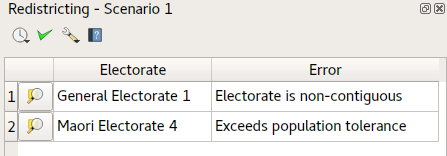
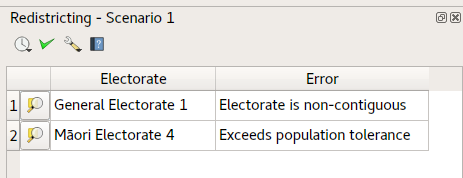
Maori -> Māori

Changed region(s): [[0.0, 0.359, 1.0, 1.0], [0.0, 0.0, 1.0, 0.1538], [0.0291, 0.1795, 0.2327, 0.3077]]

diff --git a/documentation/ui_design/mockups/mock_dock.py b/documentation/ui_design/mockups/mock_dock.py
@@ -66,7 +66,7 @@ def validate():
     table.setHorizontalHeaderLabels(['','Electorate','Error'])
     table.setItem(0,1,QTableWidgetItem('General Electorate 1'))
     table.setItem(0,2,QTableWidgetItem('Electorate is non-contiguous'))
-    table.setItem(1,1,QTableWidgetItem('Maori Electorate 4'))
+    table.setItem(1,1,QTableWidgetItem('Māori Electorate 4'))
     table.setItem(1,2,QTableWidgetItem('Exceeds population tolerance'))
     
     def create_zoom_button():
@@ -96,10 +96,10 @@ class CreateElectorateDialog(QDialog):
     def __init__(self, parent=None):
         super().__init__(parent)
         
-        self.setWindowTitle('Create New Maori Electorate')
+        self.setWindowTitle('Create New Māori Electorate')
         
         l = QVBoxLayout()
-        label = QLabel('Enter name for new Maori electorate:')
+        label = QLabel('Enter name for new Māori electorate:')
         l.addWidget(label)
         
         name = QLineEdit()
@@ -116,7 +116,7 @@ class CreateElectorateDialog(QDialog):
         
 def create_electorate():
     dlg = CreateElectorateDialog(iface.mainWindow())
-    dlg.setWindowTitle('Create New Maori Electorate')
+    dlg.setWindowTitle('Create New Māori Electorate')
     dlg.show()
     
     

diff --git a/documentation/ui_design/mockups/mock_interface.py b/documentation/ui_design/mockups/mock_interface.py
@@ -92,7 +92,7 @@ switch_ni_general_electorate_action = QAction('NI General Electorate')
 switch_menu.addAction(switch_ni_general_electorate_action)
 switch_si_general_electorate_action = QAction('SI General Electorate')
 switch_menu.addAction(switch_si_general_electorate_action)
-switch_maori_electorate_action = QAction('Maori Electorate')
+switch_maori_electorate_action = QAction('Māori Electorate')
 switch_menu.addAction(switch_maori_electorate_action)
 
 switch_tool_button.setMenu(switch_menu)

diff --git a/documentation/ui_design/ui_design.md b/documentation/ui_design/ui_design.md
@@ -90,7 +90,7 @@ The Interactive Redistricting Tool allows for instant feedback about the changes
 
 The tool is ONLY active when the meshblock layer is in edit mode, and changes made by the tool are pushed to into the undo buffer. All operations can be undone and redone up until the changes are committed to the layer (refs F11).
 
-The Interactive Redistricting Tool operates on the electorate type selected using the [Task Switcher](#task_switcher) control - e.g. if the current task is set to Maori electorates, then the redistricting tool will alter the meshblocks assigned Maori electorate.
+The Interactive Redistricting Tool operates on the electorate type selected using the [Task Switcher](#task_switcher) control - e.g. if the current task is set to Māori electorates, then the redistricting tool will alter the meshblocks assigned Māori electorate.
 
 When the tool is activated, the mouse cursor will change to a snapping tool, which snaps to current electorate boundaries for the selected electorate type. The cursor will only snap to boundaries between multiple electorates (so single electorate boundaries, for example coastal boundaries, are not clickable).
 
@@ -130,7 +130,7 @@ The Redistrict Selected Meshblock tool is a non-interactive redistricting tool, 
 
 The Redistrict Selected Meshblocks tool will only be enabled when a selection exists in the meshblock layer. Additionally, the tool is ONLY active when the meshblock layer is in edit mode, and changes made by the tool are pushed to into the undo buffer. All operations can be undone and redone up until the changes are committed to the layer (refs F11).
 
-The  Redistrict Selected Meshblocks tool operates on the electorate type selected using the [Task Switcher](#task_switcher) control - e.g. if the current task is set to Maori electorates, then the redistricting tool will alter the meshblocks assigned Maori electorate.
+The  Redistrict Selected Meshblocks tool operates on the electorate type selected using the [Task Switcher](#task_switcher) control - e.g. if the current task is set to Māori electorates, then the redistricting tool will alter the meshblocks assigned Māori electorate.
 
 After clicking the action, the user is then given a selection of available electorate districts to reassign the selection to. The dialog lists all available electorates, and includes a search widget for filtering the list. Electorates with NO assigned meshblocks appear at the top of the list for quick access. A list of the most recently used electorates is shown at the top of the dialog for quick access, and the dialog defaults to selecting the **most recently** used electorate.
 
@@ -195,7 +195,7 @@ The final action available in the Redistricting Toolbar is the Task Switcher act
 
 ![Task Switcher](images/task_switcher.png)
 
-The `Task Switcher` allows the user to select which electorate type (General North Island, General South Island, or Maori) they are currently working with. Clicking the action shows a drop-down menu giving a choice of electorate types:
+The `Task Switcher` allows the user to select which electorate type (General North Island, General South Island, or Māori) they are currently working with. Clicking the action shows a drop-down menu giving a choice of electorate types:
 
 ![Task Switcher Menu](images/task_switcher_menu.png)
 
@@ -370,14 +370,14 @@ A new table view is opened showing just the meshblocks which have been changed s
 
 The `Export Districts` action will allow users to create a dissolved copy of the current electorate districts (refs F6, F15). Selecting this action will trigger a file save dialog prompting the user to select a file location for the exported districts.
 
-Upon acceptance, the application will spatially dissolve both the General Electorates and Maori Electorates. A geopackage database will be created containing spatial tables of these electorates, and a separate table detailing districts assigned to each meshblock. Additionally the user event log will also be included as a non-spatial table (see [View Log](#view-log)).
+Upon acceptance, the application will spatially dissolve both the General Electorates and Māori Electorates. A geopackage database will be created containing spatial tables of these electorates, and a separate table detailing districts assigned to each meshblock. Additionally the user event log will also be included as a non-spatial table (see [View Log](#view-log)).
 
 The mesh block to electorate assignments will be exported in a table of the format:
 
-Meshblock | NI General | SI General | Maori
------------------------------------------------------------
-MB1 | electorate 1 |  | electorate 2
-MB2 | electorate 3 |  | electorate 5
+| Meshblock | NI General | SI General | Māori
+|-----------|------------|------------|-------
+|MB1        | electorate 1 |         | electorate 2
+|MB2        | electorate 3 |         | electorate 5
 
 The export process will occur in a background task to allow users to continue using the application while the export is performed.
 

diff --git a/documentation/db_design/db_design.md b/documentation/db_design/db_design.md
@@ -16,7 +16,7 @@ Contains mesh block boundaries and various statistics and properties of these me
 | geometry      | geometry(MultiPolygon, 2193)  | Mesh Block boundary |  | Spatial | 
 | offline_pop_ni_general | int | Offline North Island general population | | | Offline general population of mesh block
 | offline_pop_si_general | int | Offline South Island general population | | | Offline general population of mesh block
-| offline_pop_maori | int | Offline Maori population | | | Offline Maori population of mesh block	
+| offline_pop_maori | int | Offline Māori population | | | Offline Māori population of mesh block	
 | offshore | boolean |  | T/F | | True if mesh block is an offshore mesh block
 
 ## scenarios
@@ -43,17 +43,17 @@ Links meshblocks to assigned electorates. Assignment is based on scenarios, wher
 | meshblock_id | string(20) | Mesh Block code |  | Y | Linked meshblock ID code
 | ni_general_code | int | North Island General Electorate Code | | | Currently assigned General Electorate to meshblock for scenario
 | si_general_code | int | South Island General Electorate Code | | | Currently assigned General Electorate to meshblock for scenario
-| maori_code | int | Maori Electorate Code | | | Currently assigned Maori Electorate to meshblock for scenario
+| maori_code | int | Māori Electorate Code | | | Currently assigned Māori Electorate to meshblock for scenario
 
 ## electorates
 
-Contains available General and Maori electorates. This is a spatial table, containing MultiPolygon features in EPSG:2193. Geometries and populations are built from dissolved mesh block boundaries and are updated when the scenario changes or affected meshblocks are redistricted.
+Contains available General and Māori electorates. This is a spatial table, containing MultiPolygon features in EPSG:2193. Geometries and populations are built from dissolved mesh block boundaries and are updated when the scenario changes or affected meshblocks are redistricted.
 
 | Column name   | Type          |  Descriptive name | Valid Values | Index | Description
 | ------------- | ------------- | ----------------- | ------------ | ----- | ----------
 | electorate_id     | int    | Electorate ID   |              | PK    | Unique electorate ID
 | geometry      | geometry(MultiPolygon, 2193)  | Electorate boundary |  | Spatial | Current dissolved boundary of assigned mesh blocks
-| type | string(2) | Electorate type | GN/GS/M  | Y | Contains 'GN' for General North Island electorates, 'GS' for General South Island, or 'M' for Maori electorates
+| type | string(2) | Electorate type | GN/GS/M  | Y | Contains 'GN' for General North Island electorates, 'GS' for General South Island, or 'M' for Māori electorates
 | code | string(4) | Electorate code |  | | Code for electorate, e.g. '0302'
 | name | string(50) | Electorate name |  | | Name of electorate
 | scenario | string(20) | Current scenario | | | Contains the current scenario from which the cached populations and boundary were calculated
@@ -70,7 +70,7 @@ Contains population quotas for the different electorate types. Used to retrieve 
 
 | Column name   | Type          |  Descriptive name | Valid Values | Index | Description
 | ------------- | ------------- | ----------------- | ------------ | ----- | ----------
-| type | string(2) | Electorate type | GN/GS/M  | PK | Contains 'GN' for General North Island electorates, 'GS' for General South Island, or 'M' for Maori electorates
+| type | string(2) | Electorate type | GN/GS/M  | PK | Contains 'GN' for General North Island electorates, 'GS' for General South Island, or 'M' for Māori electorates
 | quota | int | Population quota | | | Target population for electorates of this type
 
 
@@ -97,7 +97,7 @@ Contains a log of the history of user interactions with the meshblock and electo
 | meshblock_version | string(50) |  | | | Meshblock version ID which the change was based on
 | scenario | string(20) |  | | | Scenario in which the change was made
 | meshblock_id     | string(20)    | Mesh Block Code   |              |     | ID of mesh block changed, e.g. MB 0847800
-| type | string(1) | Electorate type | G/M  |   | Contains 'G' for General electorate changes, 'M' for Maori electorate changes
+| type | string(1) | Electorate type | G/M  |   | Contains 'G' for General electorate changes, 'M' for Māori electorate changes
 | from | int| 'From' electorate |   |   | Electorate assigned prior to the change
 | to | int| 'To' electorate |   |   | Electorate assigned after the change
 
